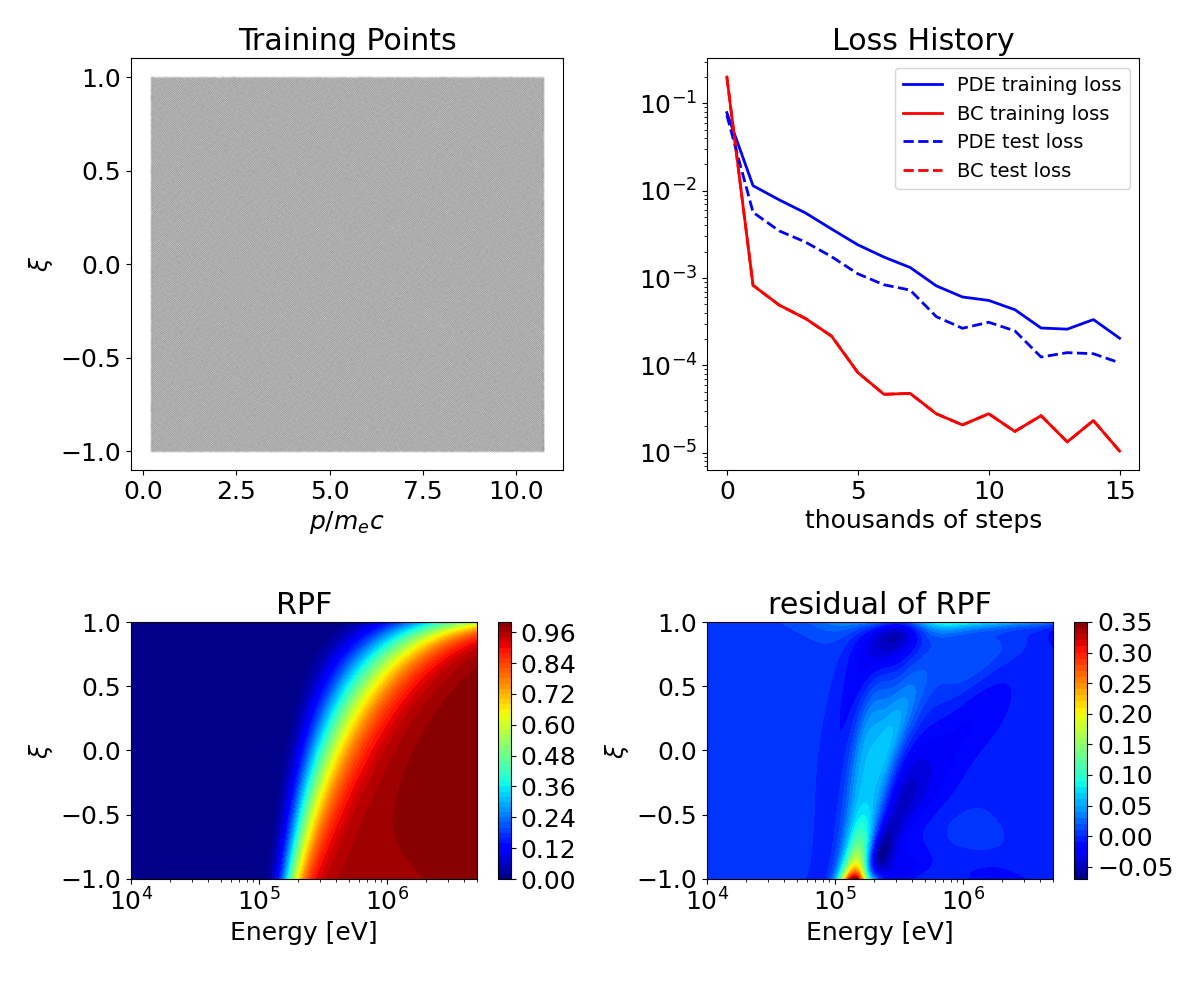
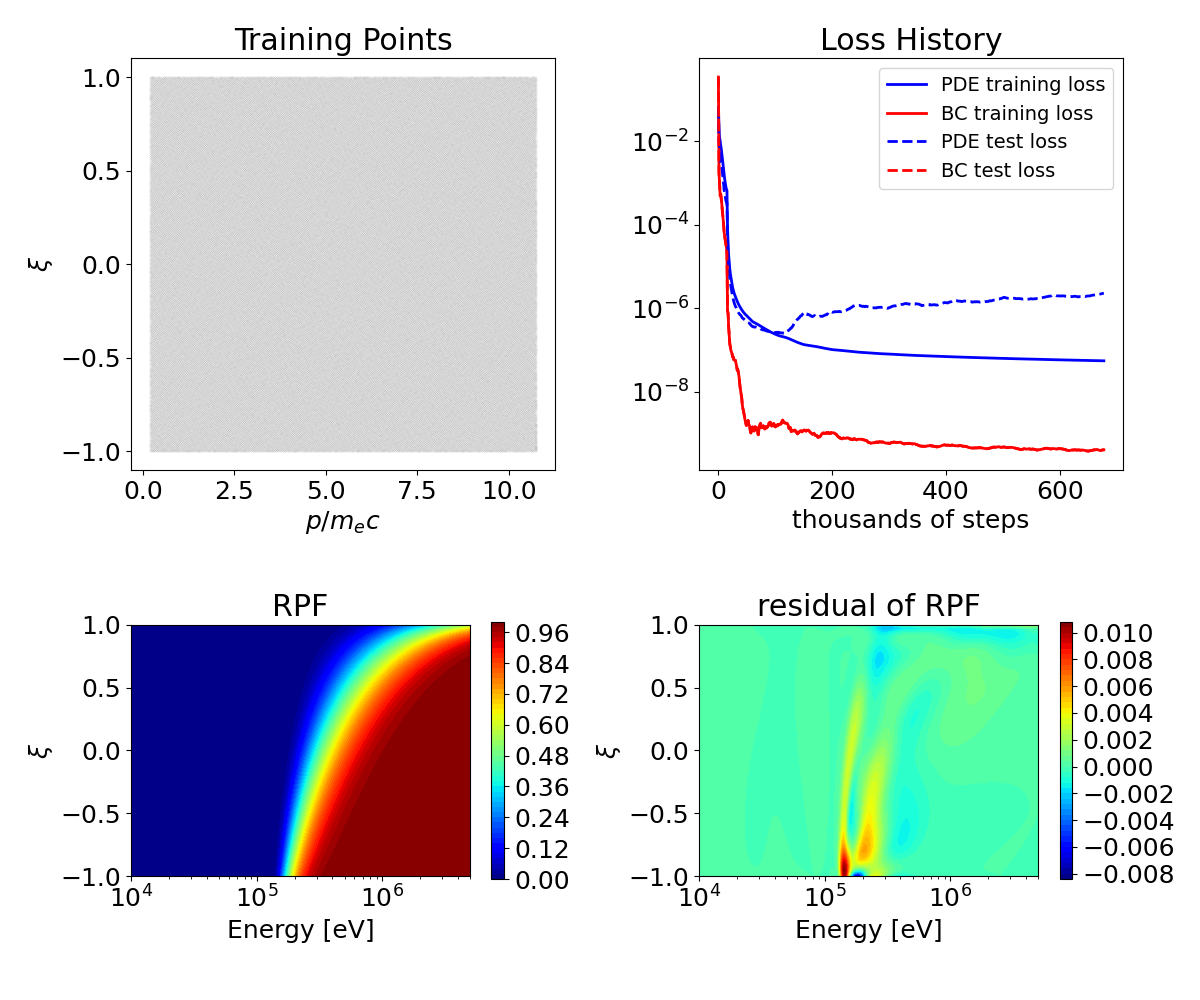
updates

diff --git a/Surrogates/DecayPINN/TrainDecayPINN.py b/Surrogates/DecayPINN/TrainDecayPINN.py
@@ -10,18 +10,26 @@ import numpy as np                # Numpy
 from deepxde.backend import torch # pytorch
 from scipy.special import kn      # scipy bessel function
 
-dde.config.set_default_float("float64") # DeepXDE requires this to be set for L-BFGS-B
+# Config setting
+epochsLBFGSB = 50_000 # number of epochs for the LBFGSB optimizer
 dde.config.set_random_seed(1234)        # Setting fixed random number generator seed
+dde.config.set_default_float("float64") # DeepXDE requires this to be set for L-BFGS-B
+dde.optimizers.config.set_LBFGS_options(maxiter=epochsLBFGSB,            # max iterations per training period
+                                       gtol = 1.0 * np.finfo(float).eps, # Tolerance
+                                       ftol = 1.0 * np.finfo(float).eps, # Tolerance
+                                       maxcor = 100,                     # optimizer hyperparameter
+                                       maxfun = epochsLBFGSB,            # maximum function evaluatations
+                                       maxls = 200                       # maximum number of line searches
+                                       )
 
 # Physical constants
 mecSQ = 511e3 # electron rest mass in units eV
 
 # Numerical parameters
-epochsADAM  = 0_000     # number of epochs for the adam optimizer
-epochsBFGS  = 10_000    # number of epochs for each LBFGS-B optimizer training period
+epochsADAM  = 15_000     # number of epochs for the adam optimizer
 NumBFGS     = 100       # number of LBFGS-B training periods
 lr          = 5.e-4     # learning rate for the adam optimizer
-pts         = 200000    # number of training and test points
+pts         = 500_000    # number of training and test points
 
 '''
 Setting ranges of physics parameters that the PINN will learn
@@ -41,7 +49,7 @@ dp  = 0.1*pMax # sets width of transition region in initial RPF
 dP = 0.15 # sets width of normalization for PINN in inital condition
 
 # neural network parameters
-numNeurons = 64     # number of neurons for each hidden layer
+numNeurons = 32     # number of neurons for each hidden layer
 numLayers  = 4      # number of hidden layers
 numInputs  = 6      # number of inputs
 numOutputs = 1      # number of outputs
@@ -202,7 +210,7 @@ def main():
     model.compile("adam", lr=lr, loss=loss, loss_weights=loss_weights)
 
     # Training the PINN with the adam optimizer and save progress
-    losshistory, train_state = model.train(iterations=epochsADAM, model_save_path = './model.ckpt')
+    losshistory, train_state = model.train(iterations=epochsADAM, model_save_path = './dcyModel/model.ckpt')
     dde.saveplot(losshistory, train_state, issave=True, isplot=False)
 
     # Resample training points every 500 iterations
@@ -214,16 +222,8 @@ def main():
         # compiling the model with the L-BFGS-B optimizer
         model.compile("L-BFGS-B", loss=loss, loss_weights=loss_weights)
 
-        # Setting optimizer settings
-        model.train_step.optimizer_kwargs = {'options': {'maxcor': 100,
-                                                         'ftol': 1.0 * np.finfo(float).eps,
-                                                         'gtol': 1.0 * np.finfo(float).eps,
-                                                         'maxiter': epochsBFGS,
-                                                         'maxfun':  epochsBFGS,
-                                                         'maxls': 200}}
-
         # Train model and save loss and model at end of training period
-        losshistory, train_state = model.train(model_save_path = './model.ckpt',callbacks=[resampler])
+        losshistory, train_state = model.train(model_save_path = './dcyModel/model.ckpt',callbacks=[resampler])
         dde.saveplot(losshistory, train_state, issave=True, isplot=False)
 
         

diff --git a/Surrogates/AvalanchePINN/TrainAvalanchePINN.py b/Surrogates/AvalanchePINN/TrainAvalanchePINN.py
@@ -8,20 +8,26 @@ import deepxde as dde             # DeepXDE
 import numpy as np                # Numpy
 from deepxde.backend import torch # pytorch
 
-
-dde.config.set_default_float("float64") # DeepXDE requires this to be set for L-BFGS-B
+# Config setting
+epochsLBFGSB = 50_000 # number of epochs for the LBFGSB optimizer
 dde.config.set_random_seed(1234)        # Setting fixed random number generator seed
-
+dde.config.set_default_float("float64") # DeepXDE requires this to be set for L-BFGS-B
+dde.optimizers.config.set_LBFGS_options(maxiter=epochsLBFGSB,            # max iterations per training period
+                                       gtol = 1.0 * np.finfo(float).eps, # Tolerance
+                                       ftol = 1.0 * np.finfo(float).eps, # Tolerance
+                                       maxcor = 100,                     # optimizer hyperparameter
+                                       maxfun = epochsLBFGSB,            # maximum function evaluatations
+                                       maxls = 200                       # maximum number of line searches
+                                       )
 # Physical constants
 mecSQ = 511e3 # electron rest mass in units eV
 
 # Numerical parameters
-epochsADAM  = 0_000    # number of epochs for the adam optimizer
-epochsBFGS  = 10_000    # number of epochs for each LBFGS-B optimizer training period
+epochsADAM  = 15_000     # number of epochs for the adam optimizer
 NumBFGS     = 100       # number of LBFGS-B training periods
 lr          = 5.e-4     # learning rate for the adam optimizer
-ptsTrain    = 1_000_000 # number of points sampled in the domain
-ptsTest     = 1_000_000 # number of test points
+ptsTrain    = 500_000    # number of points sampled in the domain
+ptsTest     = 500_000    # number of test points
 ptsBoundary = 10_000    # number of points sampled along domain boundary
 
 '''
@@ -49,8 +55,8 @@ pMin, pMax = np.sqrt(gMin**2-1), np.sqrt(gMax**2-1)
 xiMin, xiMax = -1.0, 1.0
 
 # neural network parameters
-numNeurons = 64     # number of neurons for each hidden layer
-numLayers  = 6      # number of hidden layers
+numNeurons = 32     # number of neurons for each hidden layer
+numLayers  = 4      # number of hidden layers
 numInputs  = 5      # number of inputs
 numOutputs = 1      # number of outputs
 activation = 'tanh' # activation function
@@ -199,16 +205,8 @@ def main():
     for i in range(0,NumBFGS):
         model.compile("L-BFGS-B")# compiling the model with the L-BFGS-B optimizer
 
-        # Setting optimizer settings
-        model.train_step.optimizer_kwargs = {'options': {'maxcor': 100,
-                                                         'ftol': 1.0 * np.finfo(float).eps, # prevents early stopping
-                                                         'gtol': 1.0 * np.finfo(float).eps, # prevents early stopping
-                                                         'maxiter': epochsBFGS,
-                                                         'maxfun':  epochsBFGS,
-                                                         'maxls': 200}}
-
         # Train model and save loss and model at end of training period
-        losshistory, train_state = model.train(model_save_path = './model/model.ckpt')
+        losshistory, train_state = model.train(model_save_path = './model.ckpt')
         dde.saveplot(losshistory, train_state, issave=True, isplot=False)
         
 if __name__ == "__main__":

diff --git a/Surrogates/DecayPINN/PredictDecayPINN.py b/Surrogates/DecayPINN/PredictDecayPINN.py
@@ -21,7 +21,7 @@ plt.rcParams.update({'font.size': 18})
 save_path_root = "./"
 
 # Specify which model to load
-ModelToLoad = 15000
+ModelToLoad = 931521
 
 # Provide path to model, training distribution and loss history
 ckpt_save_path  = str(save_path_root) + f"./model.ckpt-{ModelToLoad}.pt"
@@ -226,7 +226,7 @@ for i in range(len(tVal)):
 
 # Computes evolution of primary n_RE
 
-numt = 20
+numt = 50
 tgrid = np.linspace(tMin,tMax,numt)
 nREvst = np.zeros(numt)
 fe = Computefe(pgridInt,xigridInt)
@@ -263,27 +263,15 @@ ax[2,1].set_xlabel("Energy [MeV]")
 ax[2,1].set_title("Training Points")
 ax[2,1].set_xticks([1,2,3,4,5])
 
-
-# Removes redundant values in test training array
-testPDEClean = np.copy(testPDE)
-for i in range(1,len(lossPDE)):
-    if np.isclose(lossPDE[i], testPDE[i]):
-        testPDEClean[i] = 'nan'
-
-testBCClean = np.copy(testBC)
-for i in range(1,len(lossBC)):
-    if np.isclose(lossBC[i], testBC[i]):
-        testBCClean[i] = 'nan'
-
 ax[2,2].plot(1e-3*steps, lossPDE, label='training PDE', linestyle='-',color='blue',linewidth=2)
 ax[2,2].plot(1e-3*steps, lossBC, label='training BC', linestyle='-',color='red',linewidth=2)
-ax[2,2].plot(1e-3*steps, testPDEClean, 'xb', label='test PDE')
-ax[2,2].plot(1e-3*steps, testBCClean, 'xr', label='test BC')
+ax[2,2].plot(1e-3*steps, testPDE, linestyle='--',color='blue', label='test PDE')
+ax[2,2].plot(1e-3*steps, testBC, linestyle='--',color='red', label='test BC')
 
 ax[2,2].set_xlabel("Thousands of epochs")
 ax[2,2].set_title("Loss History")
 ax[2,2].set_yscale("log")
-ax[2,2].set_ylim(1e-9, 1e3)
-ax[2,2].legend(loc='upper right',fontsize=14)
+ax[2,2].set_ylim(np.min(testBC)*0.01, 1e3)
+ax[2,2].legend(loc='upper right',fontsize=14,ncol=2,labelspacing=0.1,handletextpad=0.1)
 
 fig.savefig('DecayPINN_Results')

diff --git a/Surrogates/AvalanchePINN/PredictAvalanchePINN.py b/Surrogates/AvalanchePINN/PredictAvalanchePINN.py
@@ -17,7 +17,7 @@ plt.rcParams.update({'font.size': 18})
 save_path_root = "./"
 
 # Specify which model to load
-ModelToLoad = 15000
+ModelToLoad = 677083
 
 # Provide path to model, training distribution and loss history
 ckpt_save_path  = str(save_path_root) + f"./model.ckpt-{ModelToLoad}.pt"

diff --git a/Surrogates/AvalanchePINN/README.md b/Surrogates/AvalanchePINN/README.md
@@ -4,7 +4,7 @@ This directory contains a physics-informed neural network (PINN) that predicts t
 We note that due to the decreasing support of Tensorflow ([Nvidia no longer will provide pre-built containers](https://docs.nvidia.com/deeplearning/frameworks/tensorflow-release-notes/rel-25-02.html)), we have gone ahead and converted the backend of the PINN script from Tensorflow to PyTorch, which does not impact the overall performance, as simple tensor operations are done for this script, and the L-BFGS-B optimizer is from Scipy, which is independent of the backend.
 
 # Getting started and example solution
-To launch the script that trains the PINN, simply run the command ```DDEBACKEND=pytorch python TrainAvalanchePINN.py```, assuming the environment created in the parent directory of this repo is activated. Assuming the existing script is ran exactly as is, an example solution is shown below, where this example trained till 25,000 iterations. Here, the first 15,000 iterations are with the ADAM optimizer, and the remaining 10,000 iterations are with the L-BFGS-B optimizer. We note that the example script uses approximately 11 GB of GPU memory (on a L4 GPU 24GB), so please use a GPU that has sufficient memory to run the script as is. Below is an output of the training script:
+To launch the script that trains the PINN, simply run the command ```DDEBACKEND=pytorch python TrainAvalanchePINN.py```, assuming the environment created in the parent directory of this repo is activated. Assuming the existing script is ran exactly as is, an example solution is shown below, where this example trained till [REPLACE_WHEN_DONE] iterations. Here, the first 15,000 iterations are with the ADAM optimizer, and the remaining iterations are with the L-BFGS-B optimizer. We note that the example script uses approximately 10 GB of GPU memory, so please use a GPU that has sufficient memory to run the script as is. Below is an output of the training script:
 ````
 Using backend: pytorch
 Other supported backends: tensorflow.compat.v1, tensorflow, jax, paddle.

diff --git a/Surrogates/DecayPINN/README.md b/Surrogates/DecayPINN/README.md
@@ -4,8 +4,7 @@ This directory contains a physics-informed nerual network (PINN) that predicts t
 We note that due to the decreasing support of Tensorflow ([Nvidia no longer will provide pre-built containers](https://docs.nvidia.com/deeplearning/frameworks/tensorflow-release-notes/rel-25-02.html)), we have gone ahead and converted the backend of the PINN script from Tensorflow to PyTorch, which does not impact the overall performance, as simple tensor operations are done for this script, and the L-BFGS-B optimizer is from Scipy, which is independent of the backend.
 
 # Getting started and example solution
-To launch the script that trains the PINN, simply run the command ```DDE_BACKEND=pytorch python TrainDecayPINN.py```, assuming the environment created in the parent directory is created. Assuming the existing script is ran exactly as is, an example solution is shown below, where the PINN trained for 25,000 iterations. Here, the first 15,000 iterations are with the ADAM optimizer, and the remaining 10,000 iterations are with the L-BFGS-B optimizer. We note that the example script uses approximately 10 GB of GPU memory,
-so please use a GPU that has sufficient memory to run the script as is. Below is an output of the training script:
+To launch the script that trains the PINN, simply run the command ```DDE_BACKEND=pytorch python TrainDecayPINN.py```, assuming the environment created in the parent directory is created. Assuming the existing script is ran exactly as is, an example solution is shown below, where the PINN trained for [REPLACE_WHEN_DONE] iterations. Here, the first 15,000 iterations are with the ADAM optimizer, and the remaining iterations are with the L-BFGS-B optimizer. We note that the example script uses approximately 10 GB of GPU memory, so please use a GPU that has sufficient memory to run the script as is. Below is an output of the training script:
 
 ```
 Using backend: pytorch
